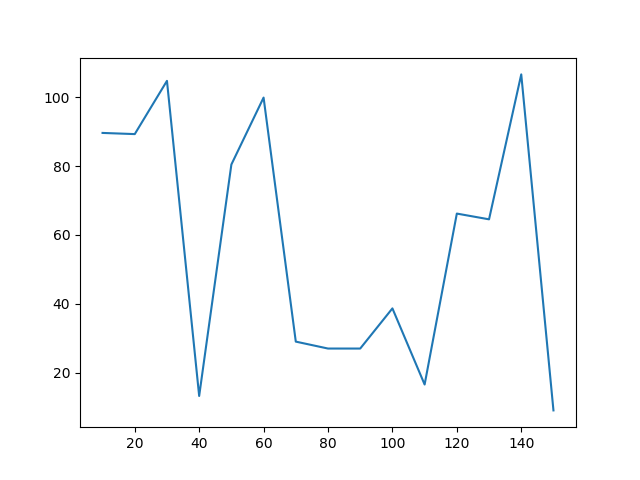
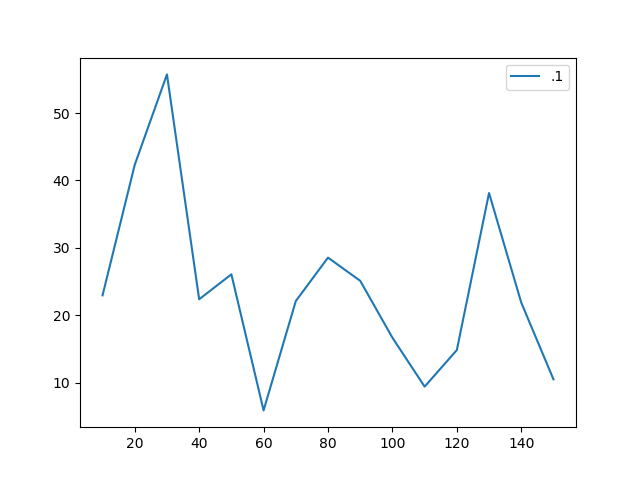
Client Update

diff --git a/EE183DB/AdaptableSLAMSolution/OnBoardCamera/eval_fs2.py b/EE183DB/AdaptableSLAMSolution/OnBoardCamera/eval_fs2.py
@@ -2,36 +2,49 @@ import numpy as np
 import math
 import matplotlib.pyplot as plt
 import fs2
+import time
+
+show_animation = True
 
 def main():
+
 	num_particle = 10
 	distH = np.zeros((20,15))
 	angleH = np.zeros((20,15))
-
-	plt.figure()
+	legends = ['.1', '.2','.3','.4', '.5','.6','.7', '.8','.9','1.0', 
+		'1.1','1.2','1.3', '1.4','1.5','1.6', '1.7','1.8','1.9', '2.0']
+	#plt.figure()
 	dts = np.linspace(.1, 2, 20)
+	
 	for i,dt in enumerate(dts):
+		plt.figure()
 		j = 0
 		while num_particle < 152:
 			dist, angle = fs2.run(num_particle, dt)
+			
 			distH[i,j] = dist
 			angleH[i,j] = angle
 			num_particle += 10
 			j = j + 1;
 			print(distH, flush=True)
 			#input()
+		
 		num_particle = 10
 		plt.plot(np.linspace(10,150,15),distH[i,:])
+		plt.xlabel('Num of iteration')
+		plt.ylabel('Error in Distance, mm')
+		plt.legend(legends[:i])
+		plt.savefig('Distance_Error.png')
+		#plt.pause(0.00001)
 
 	#plot()
 	#plt.cla()
 	#plt.plot(distH[0,:])
 	plt.xlabel('Num of iteration')
 	plt.ylabel('Error in Distance, mm')
-	plt.legend(['.1', '.2','.3','.4', '.5','.6','.7', '.8','.9','1.0', 
-		'1.1','1.2','1.3', '1.4','1.5','1.6', '1.7','1.8','1.9', '2.0'])
+	plt.legend(legends)
 	plt.savefig('Distance_Error.png')
-	
+	plt.show()
 	#plt.cla()
 	#plt.plot(angleH)
 	#plt.xlabel('Num of iteration')

diff --git a/EE183DB/RobotControl/Client/Client.py b/EE183DB/RobotControl/Client/Client.py
@@ -3,11 +3,9 @@ import time, requests
 #import Kfilter
 import numpy as np
 import math
-
-<<<<<<< HEAD
+import time
 #esp8266host = "ws://192.168.0.104:81/"
-=======
->>>>>>> 578b3f79cf2676885e1338bc31015b9baa83d92c
+
 esp8266host = "ws://192.168.50.133:81/"
 
 command = ""
@@ -72,9 +70,13 @@ if __name__ == '__main__':
         while(1):
             print("Send Command")
             command = input()
+            sleeptime = int(command.split(' ')[2])
             command = dir_to_cmd(command)
+            
             if command:
                 ws.send(command)
+                time.sleep(float(sleeptime)/1000.0)
+                ws.send("90 90 100")
 
         ws.received_message()
         exit()
